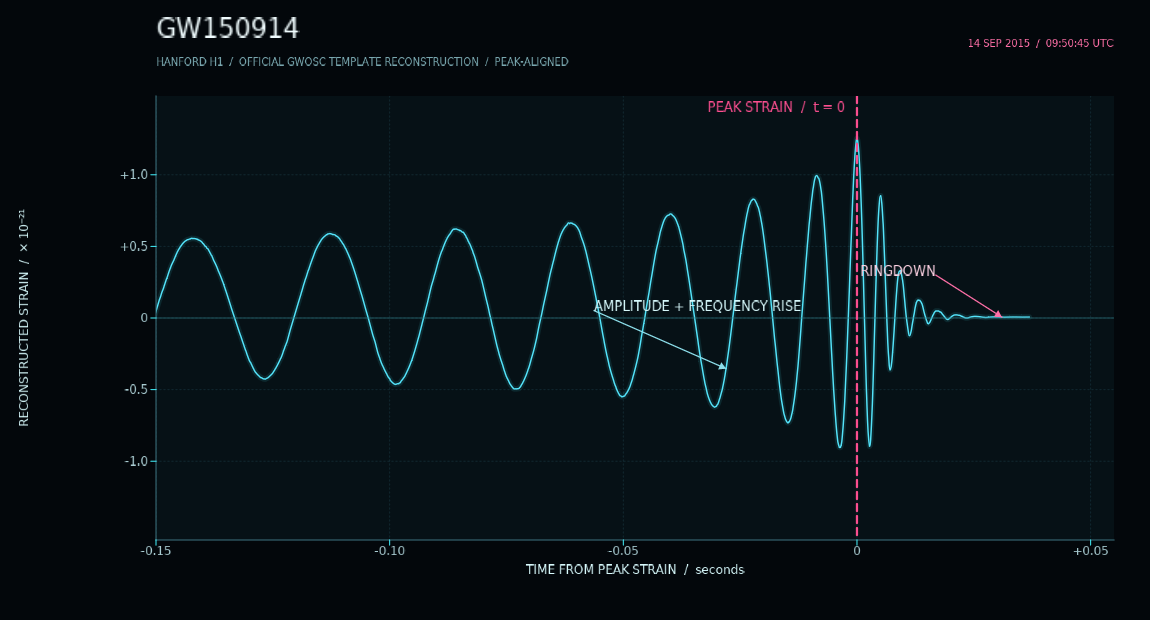
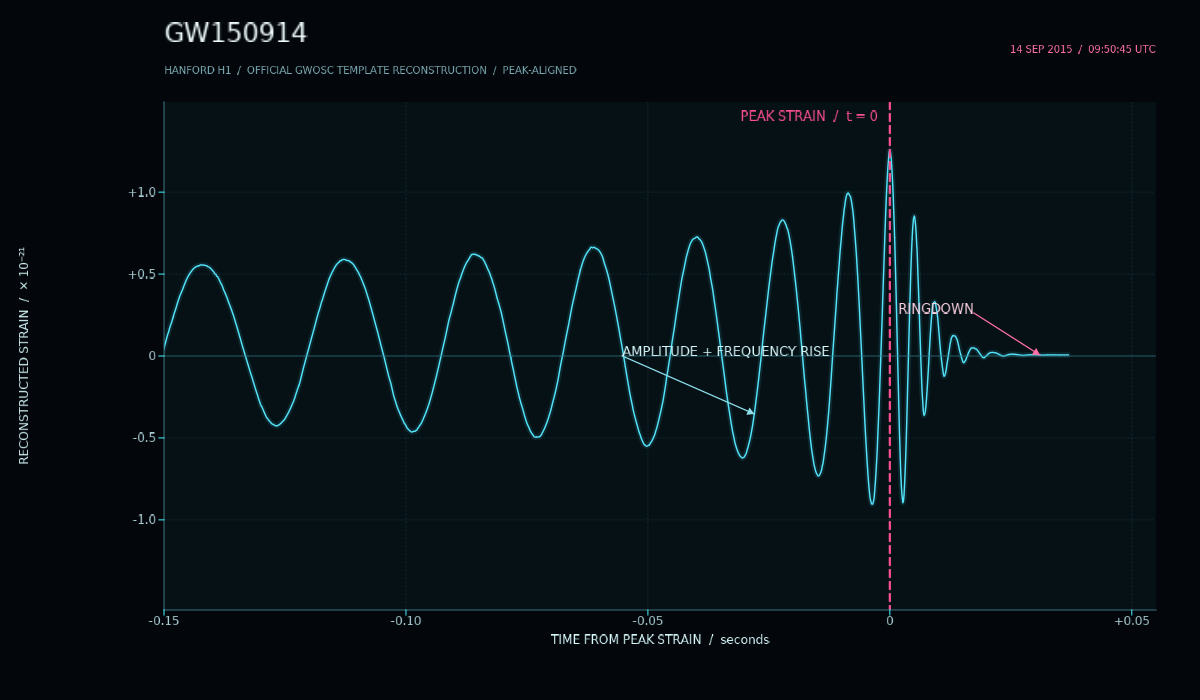
Balance README example gallery

diff --git a/README.md b/README.md
@@ -223,12 +223,13 @@ For the full design, see the [design dossier](spec/design-dossier.md).
 Each notebook fetches working rows from its linked public source; raw datasets
 are not stored in this repository. See the
 [example guide](examples/real_world/README.md) for source links, workload
-controls, and setup.
+controls, and setup. Counts describe the data behind each featured chart; the
+notebooks can scale further.
 
 |  |  |  |
 | :---: | :---: | :---: |
-| **Gaia DR3 · cosmic observatory**<br><br>![Gaia DR3 stellar color versus absolute magnitude.](examples/real_world/assets/01-gaia-hr-diagram.png)<br><br>[Open notebook](examples/real_world/01_gaia_hr_diagram.ipynb) | **gnomAD v4.1 · genomic atlas**<br><br>![gnomAD allele frequency across all autosomes.](examples/real_world/assets/02-gnomad-allele-frequency.png)<br><br>[Open notebook](examples/real_world/02_gnomad_allele_frequency.ipynb) | **Pan-UKBB · biobank editorial**<br><br>![Pan-UKBB standing-height associations across all autosomes.](examples/real_world/assets/03-pan-ukbb-manhattan.png)<br><br>[Open notebook](examples/real_world/03_pan_ukbb_manhattan.ipynb) |
-| **Dukascopy · trading terminal**<br><br>![Dukascopy EUR/USD midpoint quotes.](examples/real_world/assets/04-dukascopy-fx-ticks.png)<br><br>[Open notebook](examples/real_world/04_dukascopy_fx_ticks.ipynb) | **LIGO · signal-lab oscilloscope**<br><br>![GWOSC reconstructed Hanford waveform for GW150914.](examples/real_world/assets/05-ligo-gw150914-strain.png)<br><br>[Open notebook](examples/real_world/05_ligo_gw150914_strain.ipynb) | **NYC TLC · night cartography**<br><br>![Locally projected NYC yellow-taxi pickup hexbin density.](examples/real_world/assets/06-nyc-taxi-density.png)<br><br>[Open notebook](examples/real_world/06_nyc_taxi_density.ipynb) |
+| **Gaia DR3 · cosmic observatory**<br><sub>250,000 plotted stars</sub><br><br>![Gaia DR3 stellar color versus absolute magnitude.](examples/real_world/assets/01-gaia-hr-diagram.png)<br><br>[Open notebook](examples/real_world/01_gaia_hr_diagram.ipynb) | **gnomAD v4.1 · genomic atlas**<br><sub>164,000 plotted variants</sub><br><br>![gnomAD allele frequency across all autosomes.](examples/real_world/assets/02-gnomad-allele-frequency.png)<br><br>[Open notebook](examples/real_world/02_gnomad_allele_frequency.ipynb) | **Pan-UKBB · biobank editorial**<br><sub>814,294 plotted variants</sub><br><br>![Pan-UKBB standing-height associations across all autosomes.](examples/real_world/assets/03-pan-ukbb-manhattan.png)<br><br>[Open notebook](examples/real_world/03_pan_ukbb_manhattan.ipynb) |
+| **Dukascopy · trading terminal**<br><sub>101,427 plotted ticks</sub><br><br>![Dukascopy EUR/USD midpoint quotes.](examples/real_world/assets/04-dukascopy-fx-ticks.png)<br><br>[Open notebook](examples/real_world/04_dukascopy_fx_ticks.ipynb) | **LIGO · signal-lab oscilloscope**<br><sub>16,777,216 raw · 3,441 shown</sub><br><br>![GWOSC reconstructed Hanford waveform for GW150914.](examples/real_world/assets/05-ligo-gw150914-strain.png)<br><br>[Open notebook](examples/real_world/05_ligo_gw150914_strain.ipynb) | **NYC TLC · night cartography**<br><sub>300,000 pickup records</sub><br><br>![Locally projected NYC yellow-taxi pickup hexbin density.](examples/real_world/assets/06-nyc-taxi-density.png)<br><br>[Open notebook](examples/real_world/06_nyc_taxi_density.ipynb) |
 
 ## Documentation
 
